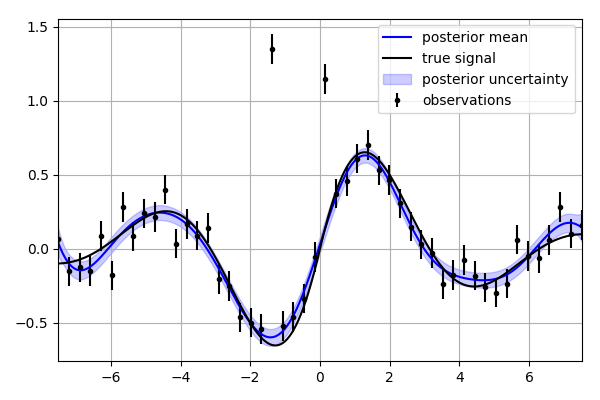
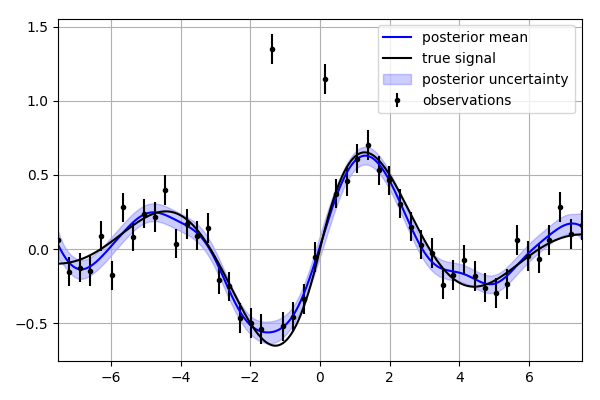
added outlier detection method to GP

diff --git a/rbf/gauss.py b/rbf/gauss.py
@@ -904,6 +904,126 @@ def likelihood(d,mu,sigma,p=None):
   return out
 
 
+def outliers(d,s,mu=None,sigma=None,p=None,tol=4.0,return_fit=False):
+  ''' 
+  Uses a data editing algorithm to identify outliers in *d*. Outliers
+  are considered to be the data that are abnormally inconsistent with
+  the Gaussian process described by *mu* (mean), *sigma* (covariance),
+  and *p* (basis vectors).
+
+  The data editing algorithm first conditions the Gaussian process
+  with the observations, then it compares each residual (*d* minus the
+  expected value of the posterior divided by *sigma*) to the RMS of
+  residuals. Data with residuals greater than *tol* times the RMS are
+  identified as outliers. This process is then repeated using the
+  subset of *d* which were not flagged as outliers. If no new outliers
+  are detected in an iteration then the algorithms stops.
+
+  Parameters
+  ----------  
+  d : (N,) float array
+    Observations
+  
+  s : (N,) float array
+    One standard deviation uncertainty on the observations. INF
+    indicates that the datum should be ignored.
+  
+  mu : (N,) float array, optional
+    Mean of the Gaussian process at the observation points. Defaults
+    to zeros.
+
+  sigma : (N,N) float array, optional
+    Covariance of the Gaussian process at the observation points.
+    Defaults to zeros.
+  
+  p : (N,P) float array, optional
+    Improper basis vectors for the Gaussian process evaluated at the
+    observation points. Defaults to an (N,0) array.
+  
+  tol : float, optional
+    Outlier tolerance. Smaller values make the algorithm more likely
+    to identify outliers. A good value is 4.0 and this should not be
+    set any lower than 2.0.
+  
+  return_fit : bool, optional
+    Indicates whether to also return the expected value of the
+    posterior. 
+    
+  Returns
+  -------
+  out : (N,) bool array
+    Array indicating which data are outliers
+
+  '''
+  d = np.asarray(d,dtype=float)
+  _assert_shape(d,(None,),'d')
+  n = d.shape[0]
+
+  s = np.asarray(s,dtype=float)
+  _assert_shape(s,(n,),'s')
+
+  if mu is None:
+    mu = np.zeros((n,),dtype=float)
+  else:  
+    mu = np.asarray(mu,dtype=float)
+    _assert_shape(mu,(n,),'mu')
+
+  if sigma is None:
+    sigma = np.zeros((n,n),dtype=float)
+  else:
+    sigma = np.asarray(sigma,dtype=float)
+    _assert_shape(sigma,(n,n),'sigma')
+  
+  if p is None:  
+    p = np.zeros((n,0),dtype=float)
+  else:  
+    p = np.asarray(p,dtype=float)
+    _assert_shape(p,(n,None),'p')
+  
+  itr = 1
+  out = np.zeros(d.shape[0],dtype=bool)
+  while True:
+    logger.debug('Starting iteration %s of outlier detection routine' % itr)
+    # mask indicating missing data and outliers
+    mask = np.isinf(s) | out
+    q = sum(~mask)
+
+    # K is the data and gp covariance
+    K = sigma[np.ix_(~mask,~mask)]
+    _diag_add(K,s[~mask]**2)
+
+    # Kinv is the inverse of K augmented with p
+    Kinv = _cholesky_block_inv(K,p[~mask])
+    del K
+
+    # residual of observed and mean 
+    r = np.zeros(q+p.shape[1])
+    r[:q] = d[~mask] - mu[~mask]
+    # dot residual with inverse of the covariances
+    v = Kinv.dot(r)
+    del Kinv,r
+
+    # form prediction vector 
+    fit = mu + sigma[:,~mask].dot(v[:q]) + p.dot(v[q:])
+    res = np.abs(fit - d)/s
+    res[np.isinf(s)] = np.inf
+    rms = np.sqrt(np.mean(res[~mask]**2))
+    if np.all(mask == (res > tol*rms)):
+      break
+
+    else:
+      out = (res > tol*rms) & ~np.isinf(s)
+      itr += 1
+
+  logger.debug('Detected %s outliers out of %s observations' %
+               (sum(out),sum(~np.isinf(s))))
+
+  if return_fit:
+    out = (out,fit)
+    
+  return out
+
+
 class GaussianProcess(object):
   ''' 
   A *GaussianProcess* instance represents a stochastic process which
@@ -1206,7 +1326,7 @@ class GaussianProcess(object):
     out = _condition(self,y,d,sigma,p,obs_diff)
     return out
 
-  def likelihood(self,y,d,sigma=None,p=None,obs_diff=None):
+  def likelihood(self,y,d,sigma=None,p=None):
     ''' 
     Returns the log likelihood of drawing the observations *d* from
     this *GaussianProcess*. The observations could potentially have noise
@@ -1236,10 +1356,6 @@ class GaussianProcess(object):
       to contain some unknown linear combination of the columns of
       *p*. 
       
-    obs_diff : (D,) tuple, optional
-      Derivative of the observations. For example, use (1,) if the 
-      observations constrain the slope of a 1-D Gaussian process.
-
     Returns
     -------
     out : float
@@ -1270,11 +1386,7 @@ class GaussianProcess(object):
       p = np.asarray(p,dtype=float)
       _assert_shape(p,(n,None),'p')
 
-    if obs_diff is None:
-      obs_diff = np.zeros(dim,dtype=int)
-    else:
-      obs_diff = np.asarray(obs_diff,dtype=int)
-      _assert_shape(obs_diff,(dim,),'obs_diff')
+    obs_diff = np.zeros(dim,dtype=int)
 
 	  # find the mean, covariance, and improper basis for the combination
   	# of the Gaussian process and the noise.
@@ -1284,6 +1396,65 @@ class GaussianProcess(object):
     out = likelihood(d,mu,sigma,p=p)
     return out
 
+  def outliers(self,y,d,sigma,tol=4.0):  
+    ''' 
+    Uses a data editing algorithm to identify outliers in *d*.
+    Outliers are considered to be the data that are abnormally
+    inconsistent with the *GaussianProcess*. This method can only be
+    used for data that has nonzero, uncorrelated noise.
+
+    The data editing algorithm first conditions the *GaussianProcess*
+    with the observations, then it compares each residual (*d* minus
+    the expected value of the posterior divided by *sigma*) to the RMS
+    of residuals. Data with residuals greater than *tol* times the RMS
+    are identified as outliers. This process is then repeated using
+    the subset of *d* which were not flagged as outliers. If no new
+    outliers are detected in an iteration then the algorithms stops.
+    
+    Parameters
+    ----------
+    y : (N,D) float array
+      Observation points.
+    
+    d : (N,) float array
+      Observed values at *y*
+    
+    sigma : (N,) float array
+      One standard deviation uncertainty on *d* 
+    
+    tol : float
+      Outlier tolerance. Smaller values make the algorithm more likely
+      to identify outliers. A good value is 4.0 and this should not be
+      set any lower than 2.0.
+    
+    Returns
+    -------
+    out : (N,) bool array
+      Boolean array indicating which data are outliers
+    
+    '''
+    y = np.asarray(y,dtype=float)
+    _assert_shape(y,(None,self.dim),'y')
+    n,dim = y.shape # number of observations and dimensions
+
+    d = np.asarray(d,dtype=float)
+    _assert_shape(d,(n,),'d')
+
+    sigma = np.asarray(sigma,dtype=float)
+    _assert_shape(sigma,(n,),'sigma')
+    
+    obs_diff = np.zeros(dim,dtype=int)
+   
+	  # find the mean, covariance, and improper basis for the combination
+  	# of the Gaussian process and the noise.
+    gp_mu = self._mean(y,obs_diff)
+    gp_sigma = self._covariance(y,y,obs_diff,obs_diff)
+    gp_p = self._basis(y,obs_diff)
+    out = outliers(d,sigma,
+                   mu=gp_mu,sigma=gp_sigma,
+                   p=gp_p,tol=tol)
+    return out
+    
   def basis(self,x,diff=None):
     ''' 
     Returns the improper basis functions evaluated at *x*.

diff --git a/docs/scripts/gauss.c.py b/docs/scripts/gauss.c.py
@@ -1,98 +1,37 @@
 ''' 
-This script defines a function which performs robust Gaussian process 
-regression, where outliers are detected and ignored. This algorithm is 
-iterative; outliers are detected based on their misfit to the 
-posterior Gaussian process, and then a new posterior Gaussian process 
-is calculated with the detected outliers removed. Iterations continue 
-until no new outliers are detected. This algorithm is based on the 
-data editing algorithm from [1].
-
-References
-----------
-[1] Gibbs, B. Advanced Kalman Filtering, Least-Squares and 
-  Modeling: A Practical Handbook. John Wiley & Sons, 2011.
-
+This script describes how to use the *outliers* method to detect and
+remove outliers prior to conditioning a *GaussinaProcess*. 
 '''
 import numpy as np
 import matplotlib.pyplot as plt
 import rbf
+import logging
+logging.basicConfig(level=logging.DEBUG)
 np.random.seed(1)
-
-def robust_gpr(y,d,s,coeffs,x=None,basis=rbf.basis.se,order=1,tol=3.0):
-  ''' 
-  Parameters
-  ----------
-  y : (N,D) array
-    observation points
-
-  d : (N,) array
-    observations
-
-  s : (N,) array
-    observation uncertainties    
-  
-  coeffs : (3,) tuple
-    mean, variance, and characteristic length-scale of the prior 
-    Gaussian process
-  
-  x : (M,D) array
-    output points. Defaults to *y*
-    
-  basis : rbf.basis.RBF instance, optional
-    prior covariance function
-
-  order : int, optional  
-    order of the unconstrained polynomial basis functions
-  
-  tol : float, optional
-    outlier tolerance. Smaller values make the outlier detection 
-    algorithm more sensitive.
-    
-  Returns 
-  -------
-  out_mean : (M,) array
-  out_sigma : (M,) array
-  
-  '''
-  if x is None: x = y
-  # Initially assume that none of the data are outliers
-  is_outlier = np.zeros(d.shape[0],dtype=bool)
-  # the prior gaussian process is an isotropic GP with unconstrained 
-  # polynomial basis functions
-  prior = rbf.gauss.gpiso(basis,coeffs) + rbf.gauss.gppoly(order)
-  while True:
-    # form posterior ignoring detected outliers
-    post = prior.condition(y[~is_outlier],d[~is_outlier],sigma=s[~is_outlier])
-    res = np.abs(post.mean(y) - d)/s # weighted residuals
-    rms = np.sqrt(np.mean(res[~is_outlier]**2)) # root mean square error
-    if np.all(is_outlier == (res > tol*rms)):
-      # break out out while loop if no new outliers are detected
-      print('detected outliers : %s' % is_outlier.nonzero()[0])
-      break
-    else:
-      # outliers are those which have a weighted residual that is
-      # significantly greater than the root mean square error
-      is_outlier = (res > tol*rms)
-
-  out_mean,out_sigma = post(x)
-  return out_mean,out_sigma
-
 
 y = np.linspace(-7.5,7.5,50) # obsevation points
 x = np.linspace(-7.5,7.5,1000) # interpolation points
-s = 0.1*np.ones(50) # noise standard deviation
-noise = np.random.normal(0.0,s)
+truth = np.exp(-0.3*np.abs(x))*np.sin(x)  # true signal at interp. points
+# form synthetic data
+obs_sigma = 0.1*np.ones(50) # noise standard deviation
+noise = np.random.normal(0.0,obs_sigma)
 noise[20],noise[25] = 2.0,1.0 # add anomalously large noise
-d_true = np.exp(-0.3*np.abs(x))*np.sin(x)  # true signal at interp. points
-d = np.exp(-0.3*np.abs(y))*np.sin(y) + noise  # observations
-# find the mean and uncertainty of the posterior
-u,us = robust_gpr(y[:,None],d,s,(0.0,100.0,2.0),x=x[:,None]) 
+obs_mu = np.exp(-0.3*np.abs(y))*np.sin(y) + noise
+# form prior Gaussian process
+prior = rbf.gauss.gpse((0.0,1.0,1.0)) + rbf.gauss.gppoly(1)
+# find outliers which will be removed
+toss = prior.outliers(y[:,None],obs_mu,obs_sigma)
+# condition with non-outliers
+post = prior.condition(y[~toss,None],obs_mu[~toss],obs_sigma[~toss])
+post_mu,post_sigma = post(x[:,None])
 # plot the results
 fig,ax = plt.subplots(figsize=(6,4)) 
-ax.errorbar(y,d,s,fmt='k.',capsize=0.0,label='observations') 
-ax.plot(x,u,'b-',label='posterior mean') 
-ax.fill_between(x,u-us,u+us,color='b',alpha=0.2,edgecolor='none',label='posterior uncertainty') 
-ax.plot(x,d_true,'k-',label='true signal') 
+ax.errorbar(y,obs_mu,obs_sigma,fmt='k.',capsize=0.0,label='observations') 
+ax.plot(x,post_mu,'b-',label='posterior mean') 
+ax.fill_between(x,post_mu-post_sigma,post_mu+post_sigma,
+                color='b',alpha=0.2,edgecolor='none',
+                label='posterior uncertainty') 
+ax.plot(x,truth,'k-',label='true signal') 
 ax.legend(fontsize=10)
 ax.set_xlim((-7.5,7.5))
 ax.grid(True)
